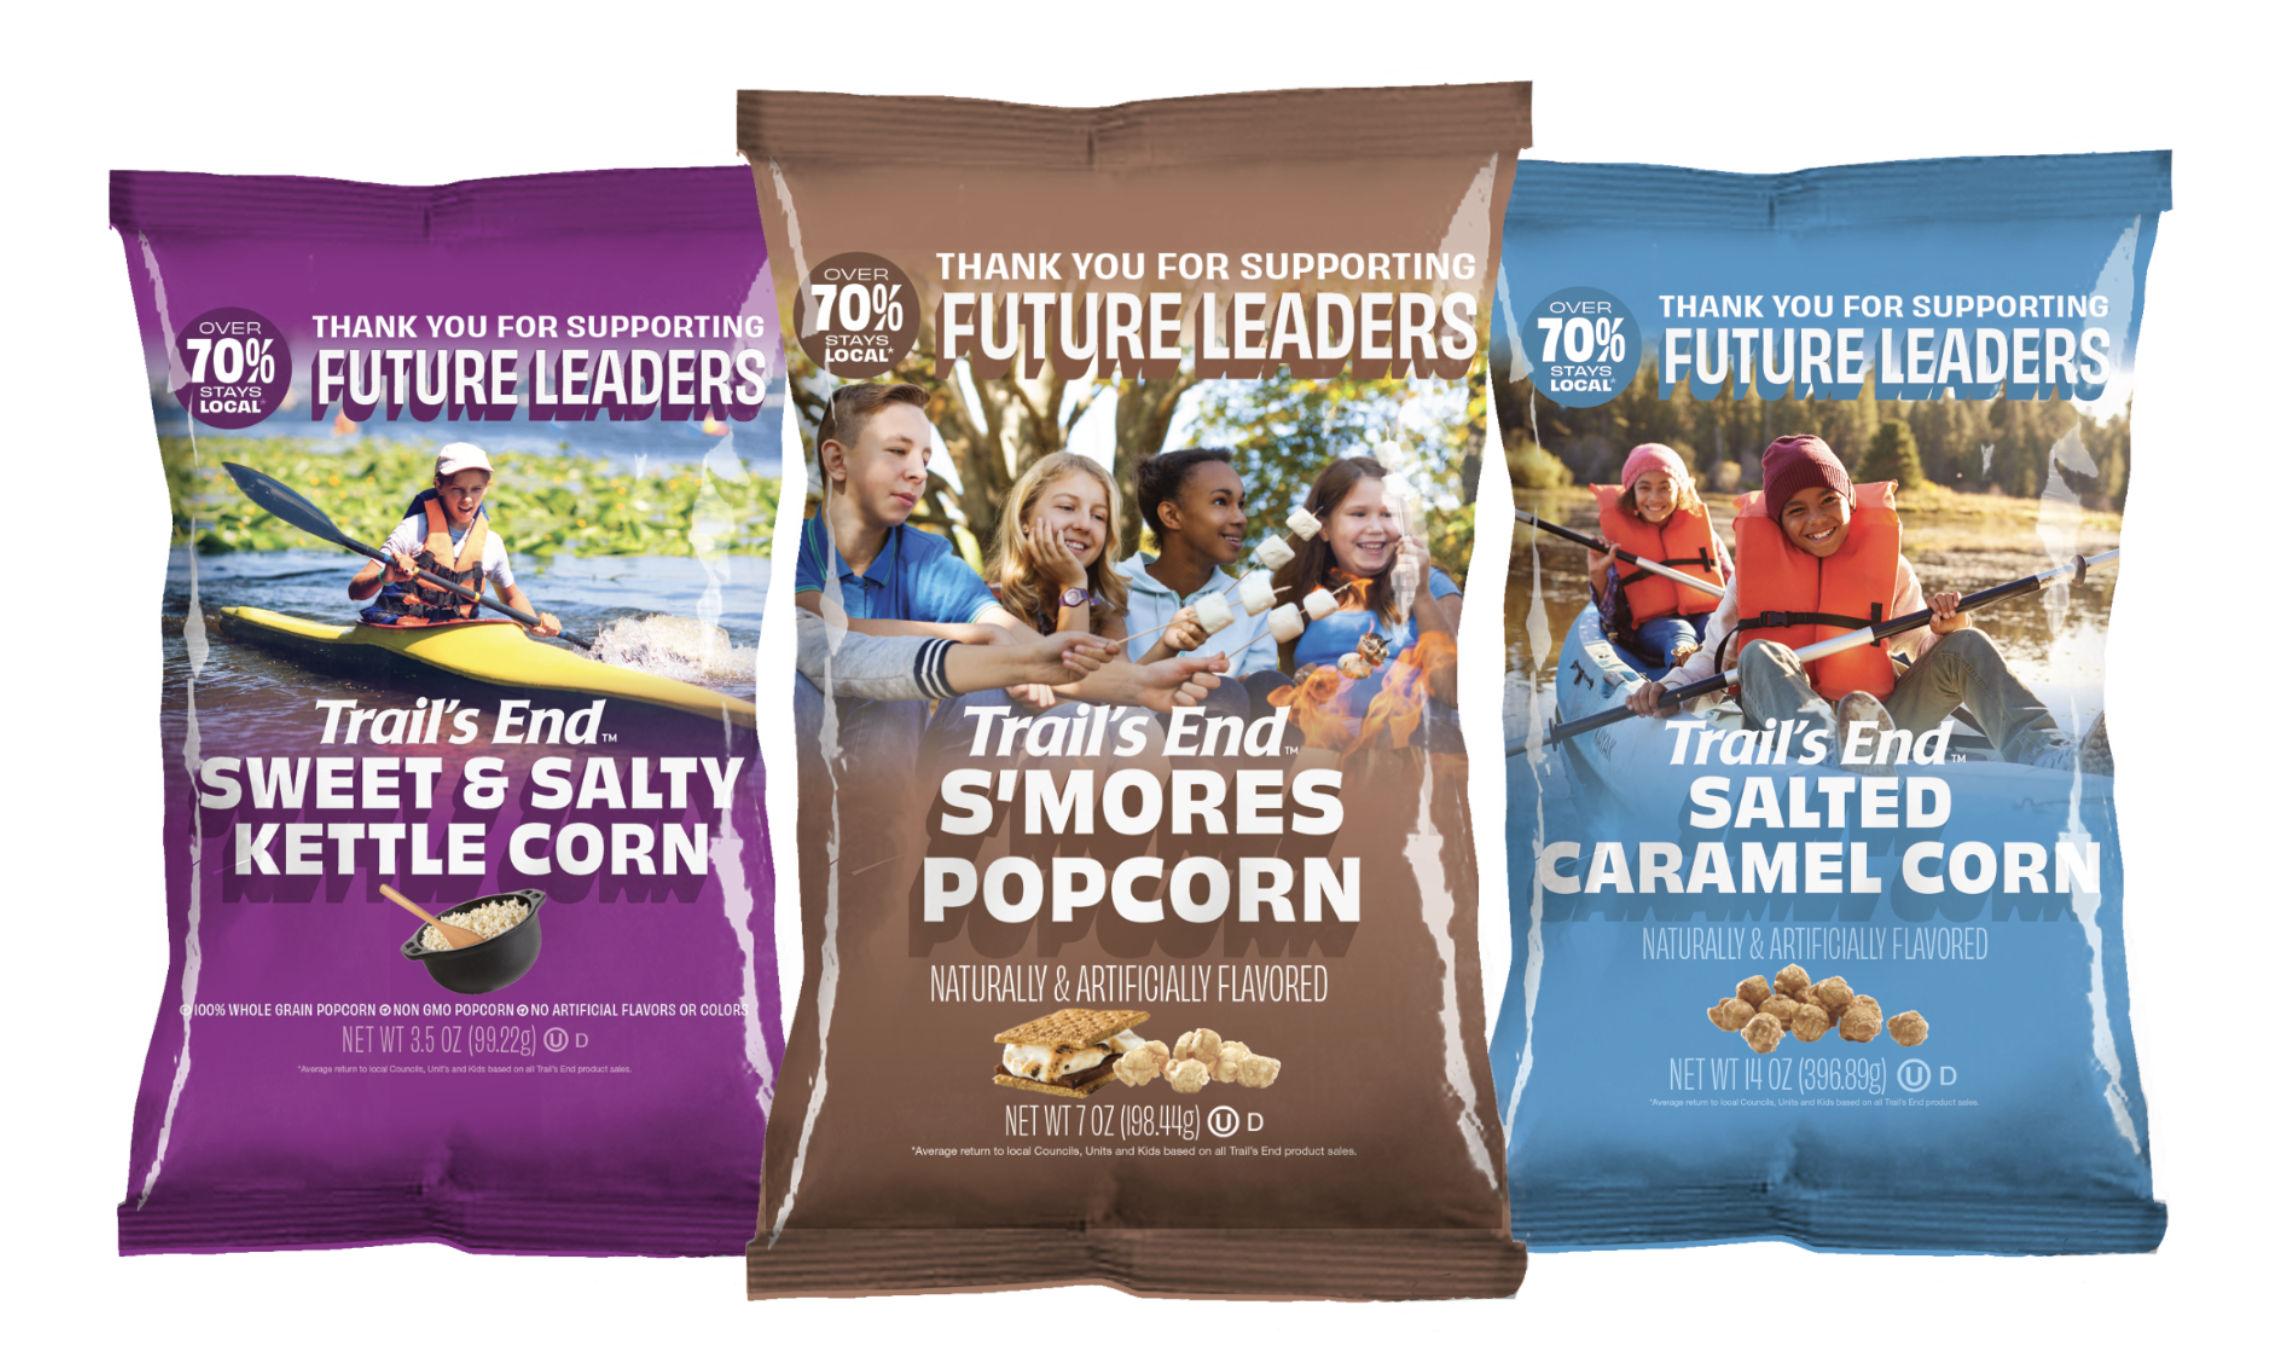
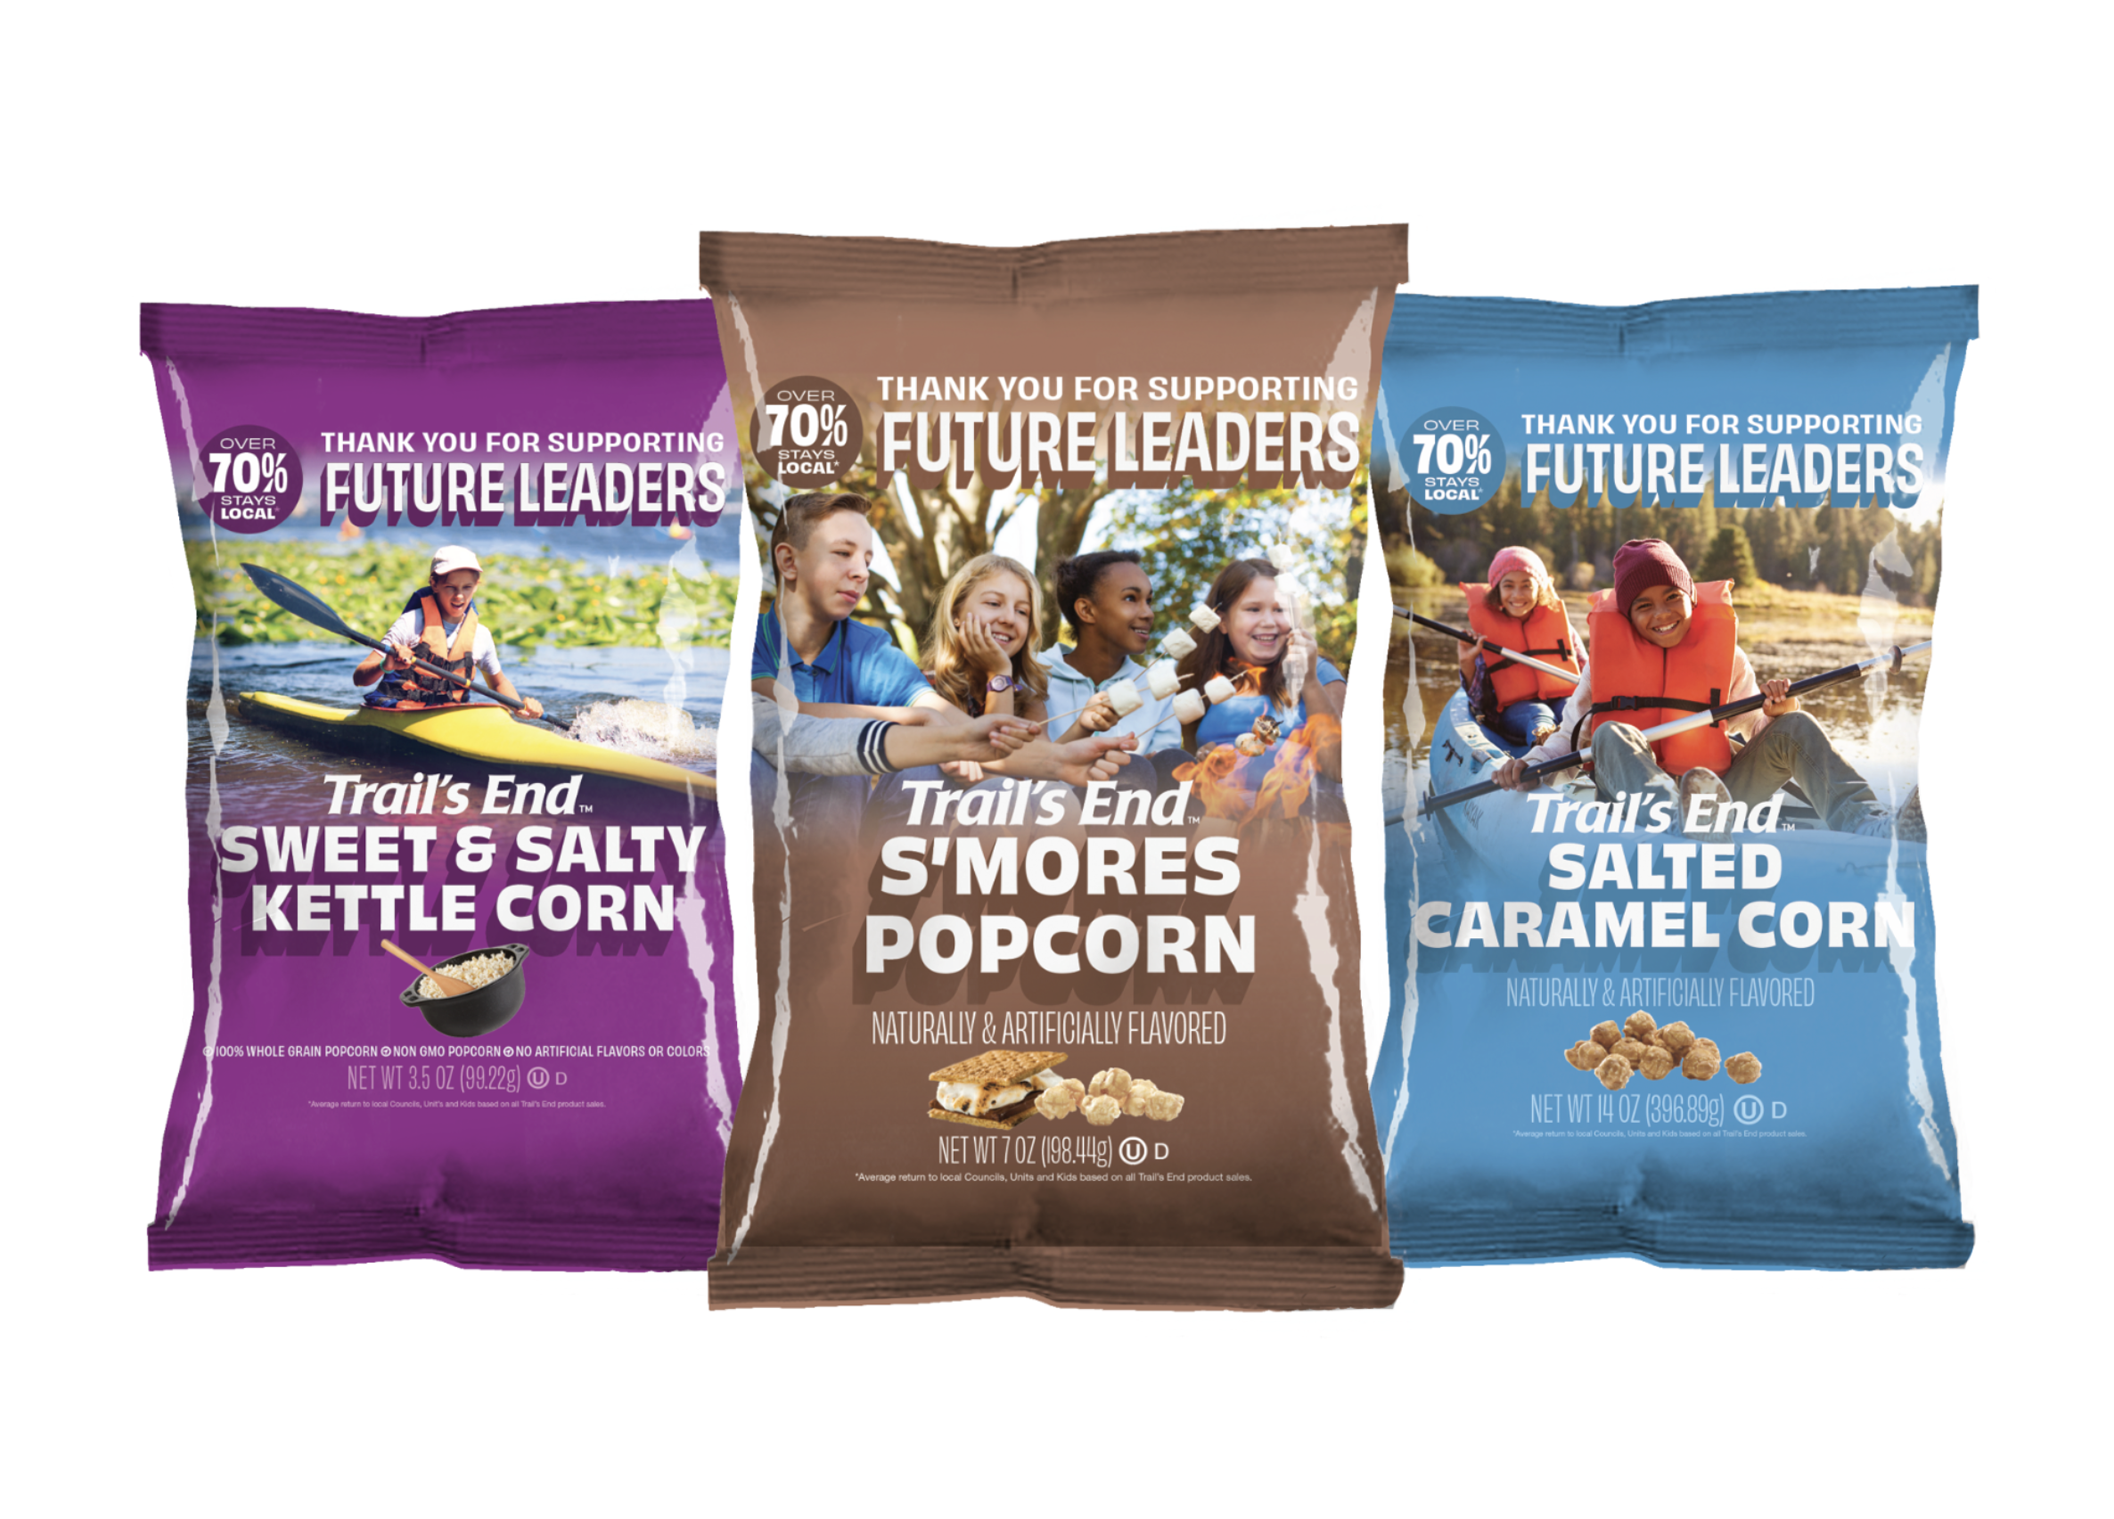
packaging

diff --git a/content/projects/adventure.md b/content/projects/adventure.md
@@ -3,7 +3,7 @@ title: adventure is out there
 description: Led refresh of the Trail's End Fundraiser Packaging and Social campaigns.
 date: 2023-01-10 08:01:35 +0300
 label:
-image: /images/te-packaging.png
+image: /images/te-packaging2.png
 page_cover:
 ---
 
